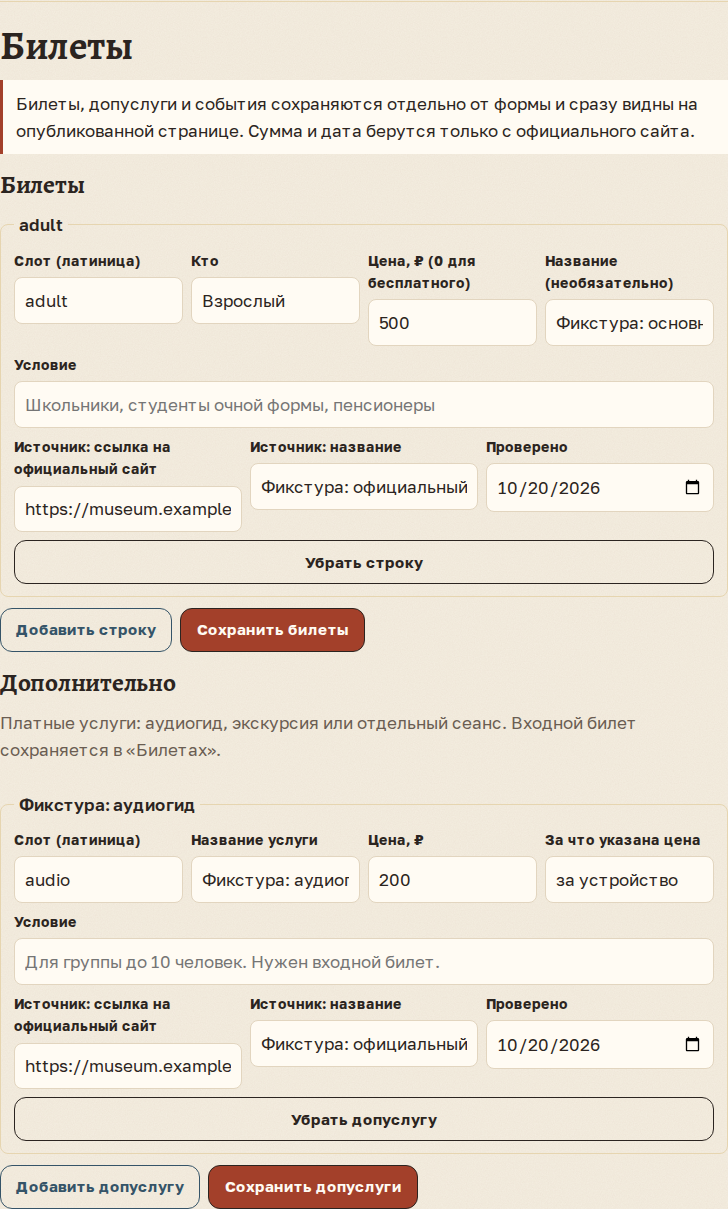
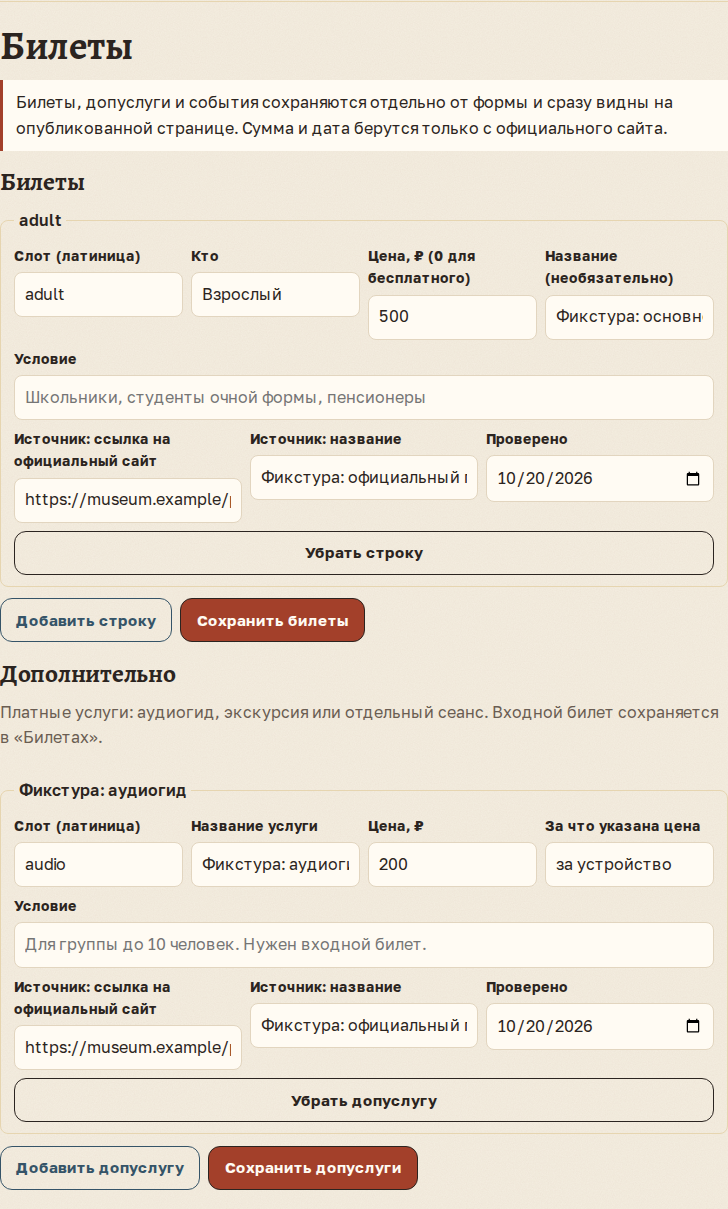
docs: record admission validation and restore normal CI

diff --git a/docs/reviews/2026-10-23-admission-extras-implementation/README.md b/docs/reviews/2026-10-23-admission-extras-implementation/README.md
@@ -10,7 +10,7 @@ MCP/admin reads partition lists and stale counters; extras-only subjects remain 
 
 ## Rollout boundary
 
-`FEATURE_ADMISSION_EXTRAS_WRITE` defaults false: deploy the new writer to **every running instance** before enabling it. Disabled extra writes return 503 before either list changes; entry writes and all reads continue. Draft-token live-parent writes still return 409 with no pending payload. Enabling does not grant new roles. See [rollout/rollback](../../development.md#admission-extras-rollout).
+`FEATURE_ADMISSION_EXTRAS_WRITE` defaults false: deploy the new writer to **every running instance** before enabling it. Disabled extra list/value writes return 503 before either list changes; entry writes and all reads continue. Draft-token live-parent writes still return 409 with no pending payload. Hash-only freshness confirmation keeps its existing permissions. Enabling does not grant new roles. See [rollout/rollback](../../development.md#admission-extras-rollout).
 
 Disabling writes preserves stored public data. An old whole-list writer is unsafe over new extras; prefer a forward repair, or stop/guard all writes independently before an older-image rollback. Do not drop stored extras/facts. No production price was read or written for this implementation. No seed, label-based migration, cross-page ticket catalog, deposit accounting or booking/payment is included. Keep issue 290 open through deployment and agreed live acceptance.
 
@@ -35,7 +35,9 @@ Run after a web build with `node docs/reviews/2026-10-23-admission-extras-implem
 
 Local focused component/contract regressions passed: 39 tests in three files, covering payload separation, explicit clears, rollout-disabled controls, failed saves, SSR provenance/prerequisites/units, old fact hashes, mixed/unknown shapes, capacities and JSON-LD isolation. Browser capture passed at 390px and 1440px and the screenshots were visually inspected. Local Node is 24.19.0 rather than pinned 24.21.0; pnpm is pinned 12.15.0. The local host has no Postgres/Docker, so database and full verification use CI.
 
-Database regressions add legacy migration preservation, 48/49 and 12/13 boundaries, omission/clears, validation before mutation, same-name slot namespaces, fact update/retirement/confirmation, draft/live and rollout refusal, transactional failure/retry, concurrent saves and the actual SQL scoring aggregate. Full CI and local quick results are pending; an exact tested commit/run will be recorded before handoff.
+Database regressions add legacy migration preservation, 48/49 and 12/13 boundaries, omission/clears, validation before mutation, same-name slot namespaces, fact update/retirement/confirmation, draft/live and rollout refusal, transactional failure/retry, concurrent saves and the actual SQL scoring aggregate. Local targeted lint and database/web/writer typechecks passed after corrections during implementation. A whole local quick/full pass is not claimed: the iterate command was used while changing types, and its related database tests require the unavailable local Postgres/Docker. [Full pre-PR CI](https://github.com/hmbanan666/k39/actions/runs/39999643511) passed on `838ea7d24ee8b455aad20430dd29b1aa3a47f353`: literal `pnpm run check:full`, all package typechecks, **893 tests in 123 files**, web build, standalone SSR and Docker. `git diff --exit-code` passed after the full command. CI used Node 24.21.0, pnpm 12.15.0 and Postgres 18. All new database cases above ran against the migrated test database.
+
+The final follow-up only records evidence/rollout wording, updates three desktop screenshots from the successful repeat of the same capture flow, and removes temporary branch-push/full-command validation scaffolding. Application, migration, skill, test and capture source content is unchanged from the tested commit. The final workflow exactly matches the baseline; normal PR CI runs against the final head again. Relative documentation links and final Markdown lint passed.
 
 ## Remaining acceptance
 

diff --git a/docs/development.md b/docs/development.md
@@ -111,7 +111,7 @@ Do not add Kubernetes manifests or GitHub Actions deploy workflows.
 
 Migration `0046_admission_extras.sql` preserves every existing price as `kind = entry`; it does not rewrite amounts, sources, check dates or fact hashes. Normal startup applies it. There is no content seed or label-based reclassification.
 
-`FEATURE_ADMISSION_EXTRAS_WRITE` defaults to false in `apps/web-app/.env.example`. Deploy the partition-aware application to every running instance with this switch unset/false. After verifying the deployed commit on every instance and migration success, set it to `true` for those instances. Only then write extras with an authorized editor. `admission_get.extrasWriteEnabled` reports the instance's setting; disabled explicit extra writes return 503 before either list changes. Entry writes and all reads still work. Draft tokens continue to receive 409 on live parents even when the switch is enabled.
+`FEATURE_ADMISSION_EXTRAS_WRITE` defaults to false in `apps/web-app/.env.example`. Deploy the partition-aware application to every running instance with this switch unset/false. After verifying the deployed commit on every instance and migration success, set it to `true` for those instances. Only then create/change/clear extras with an authorized editor. `admission_get.extrasWriteEnabled` reports the instance's setting; disabled explicit extra writes return 503 before either list changes. Entry writes and all reads still work; hash-only `fact_confirm` remains allowed and updates the matching row date without a value change. Draft tokens continue to receive 409 on live parents even when the switch is enabled.
 
 Keep the new reader/writer when disabling extras writes: set the switch false, which preserves existing extras and their public freshness behavior. Do not roll back to the pre-ADR-0050 whole-list writer while extras exist: that writer can delete them or misread them as entry. Prefer a forward repair. Any older-image rollback needs an independent write stop/guard before it starts; this switch does not exist in old images. Do not drop extra columns or facts as a rollback step.
 

diff --git a/docs/content-system.md b/docs/content-system.md
@@ -139,4 +139,4 @@ Entry fact values/hashes are unchanged. Extra facts use kind `admission`, slot `
 
 The public block displays «Билеты» then «Дополнительно», with each fresh row's source and check date. Entry rows alone set entry JSON-LD offers/free-access, fallback and scoring. Extras alone never suppress a legacy place price; absent entry information remains «Стоимость билета уточняйте». The same helper is used for places, venues and routes. Multi-exhibition/combined tickets are labelled entry rows; cross-subject sharing is deferred.
 
-Extra writes default off for safe server rollout. See [rollout and rollback](development.md#admission-extras-rollout). This switch does not hide stored public data and does not change entry writes.
+Extra list/value writes default off for safe server rollout; hash-only freshness confirmation remains allowed under the existing fact-confirm permissions. See [rollout and rollback](development.md#admission-extras-rollout). This switch does not hide stored public data and does not change entry writes.
